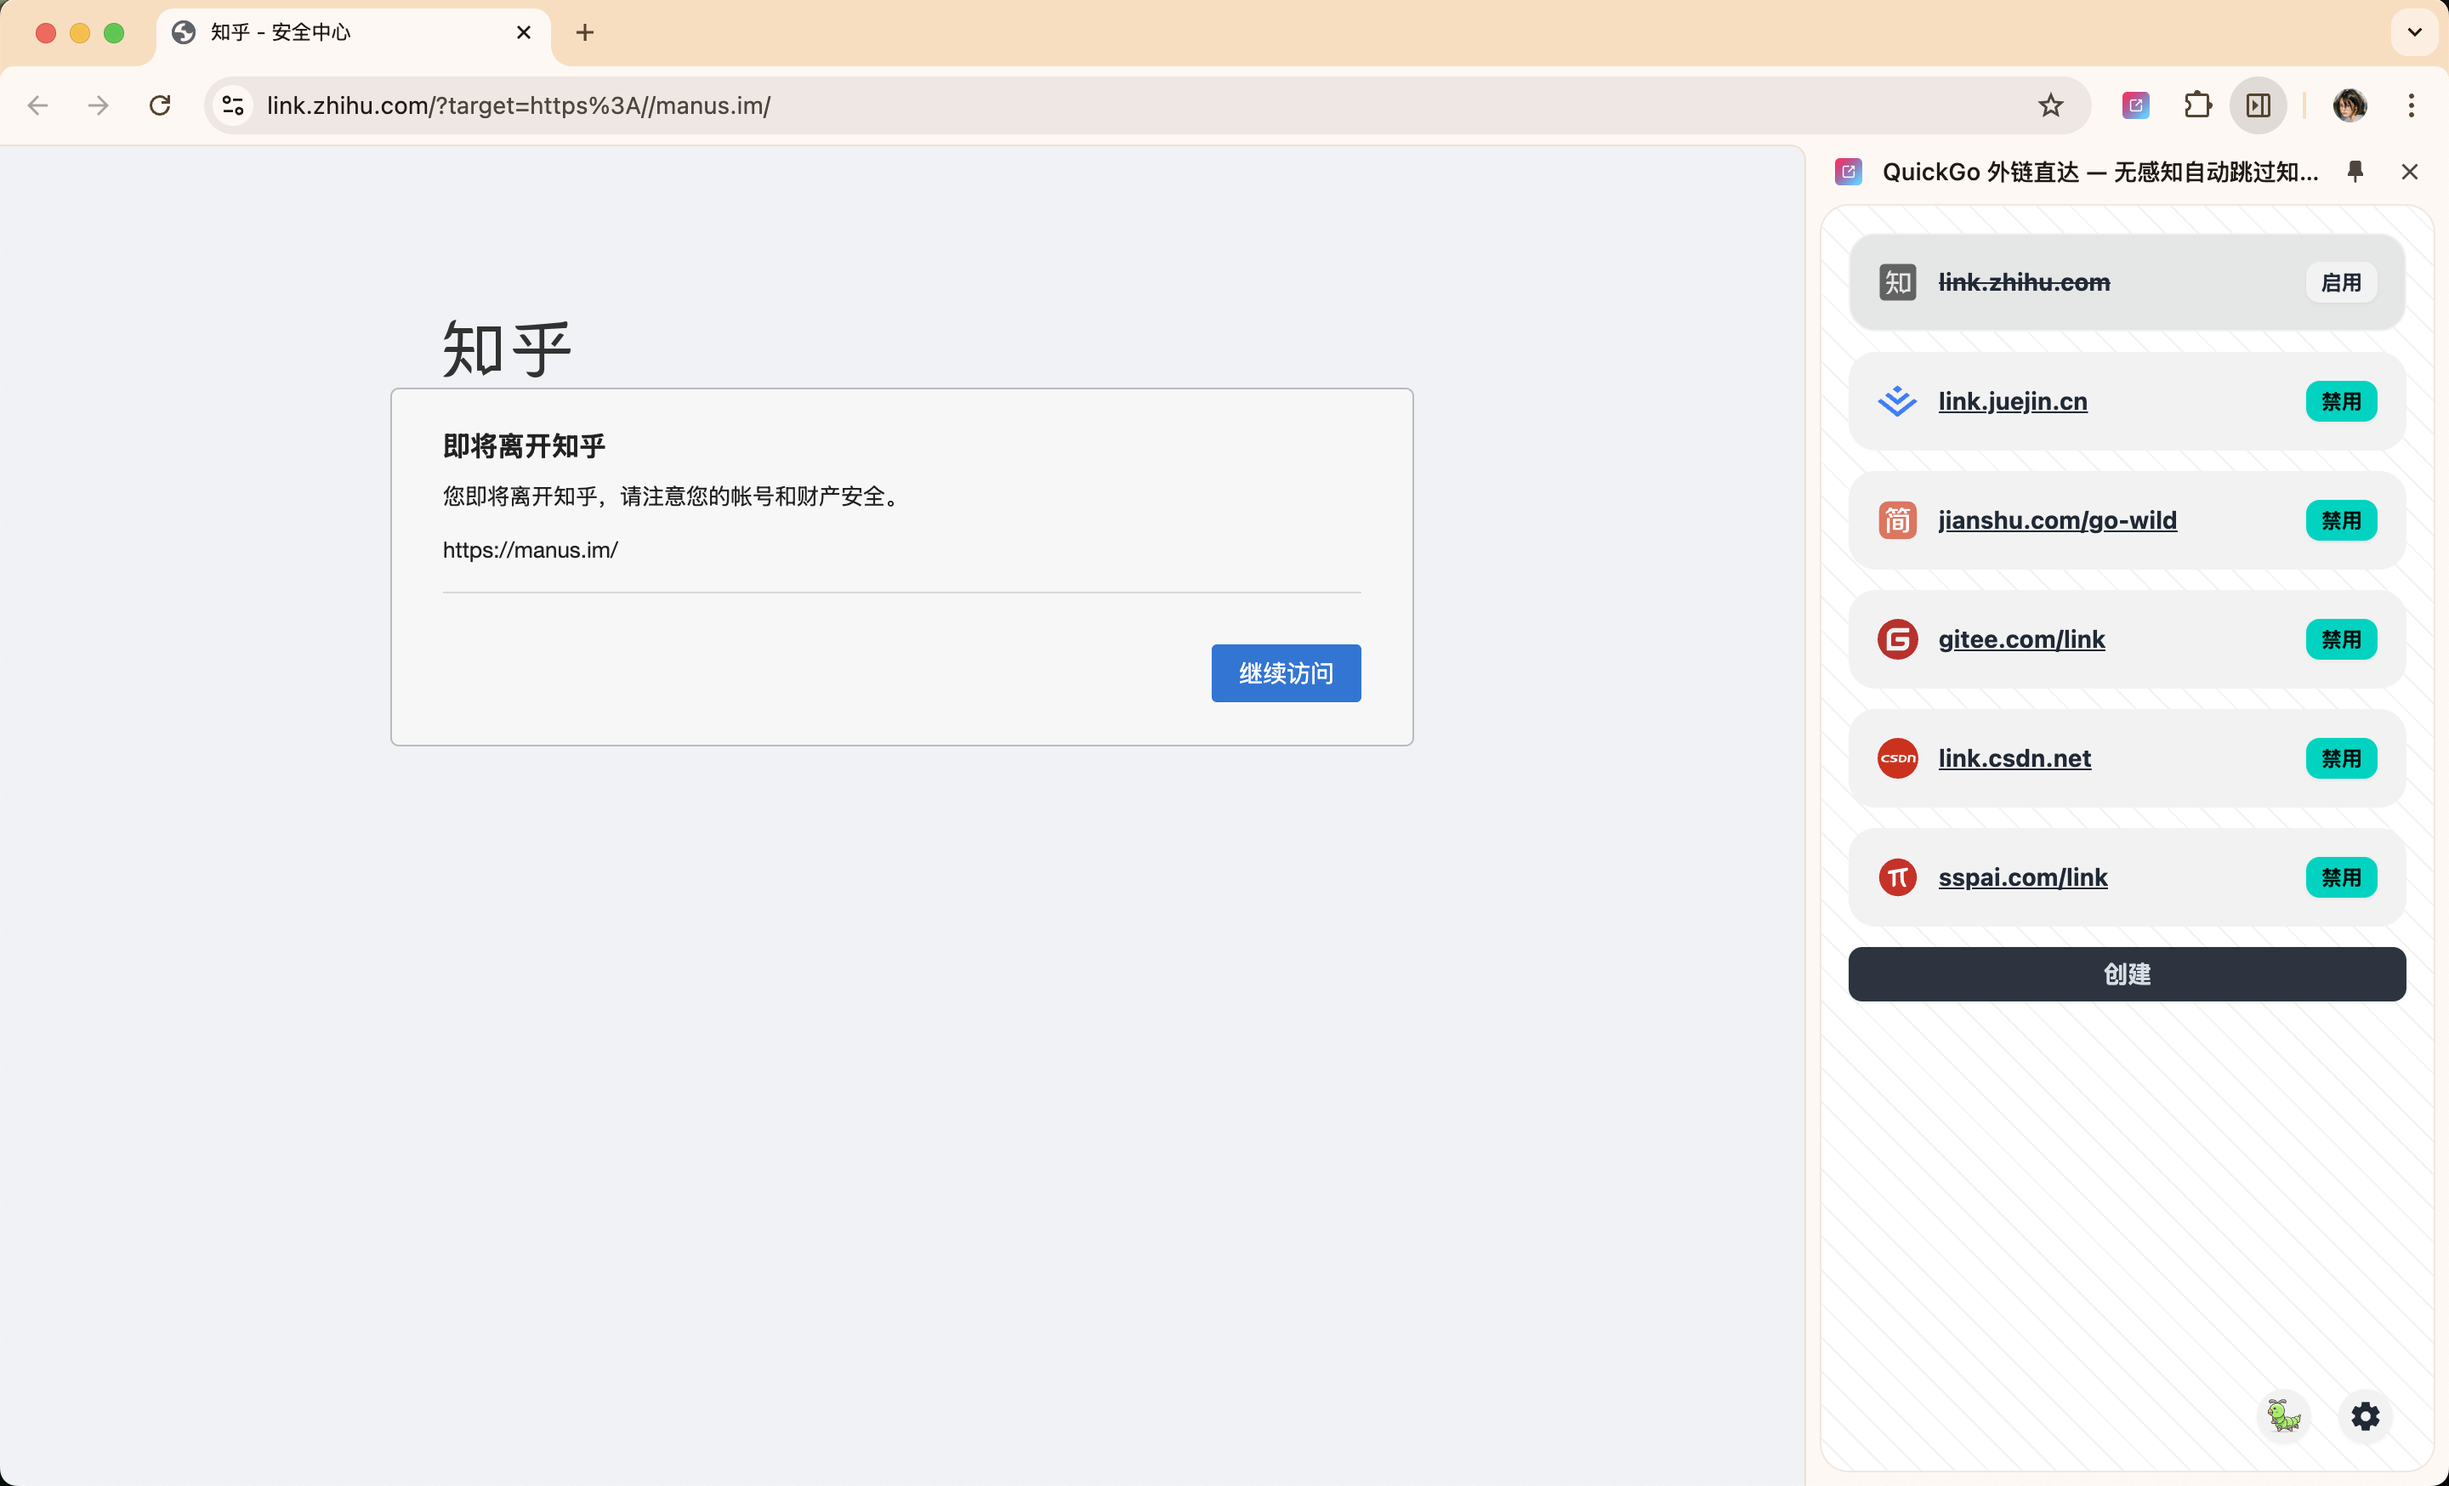
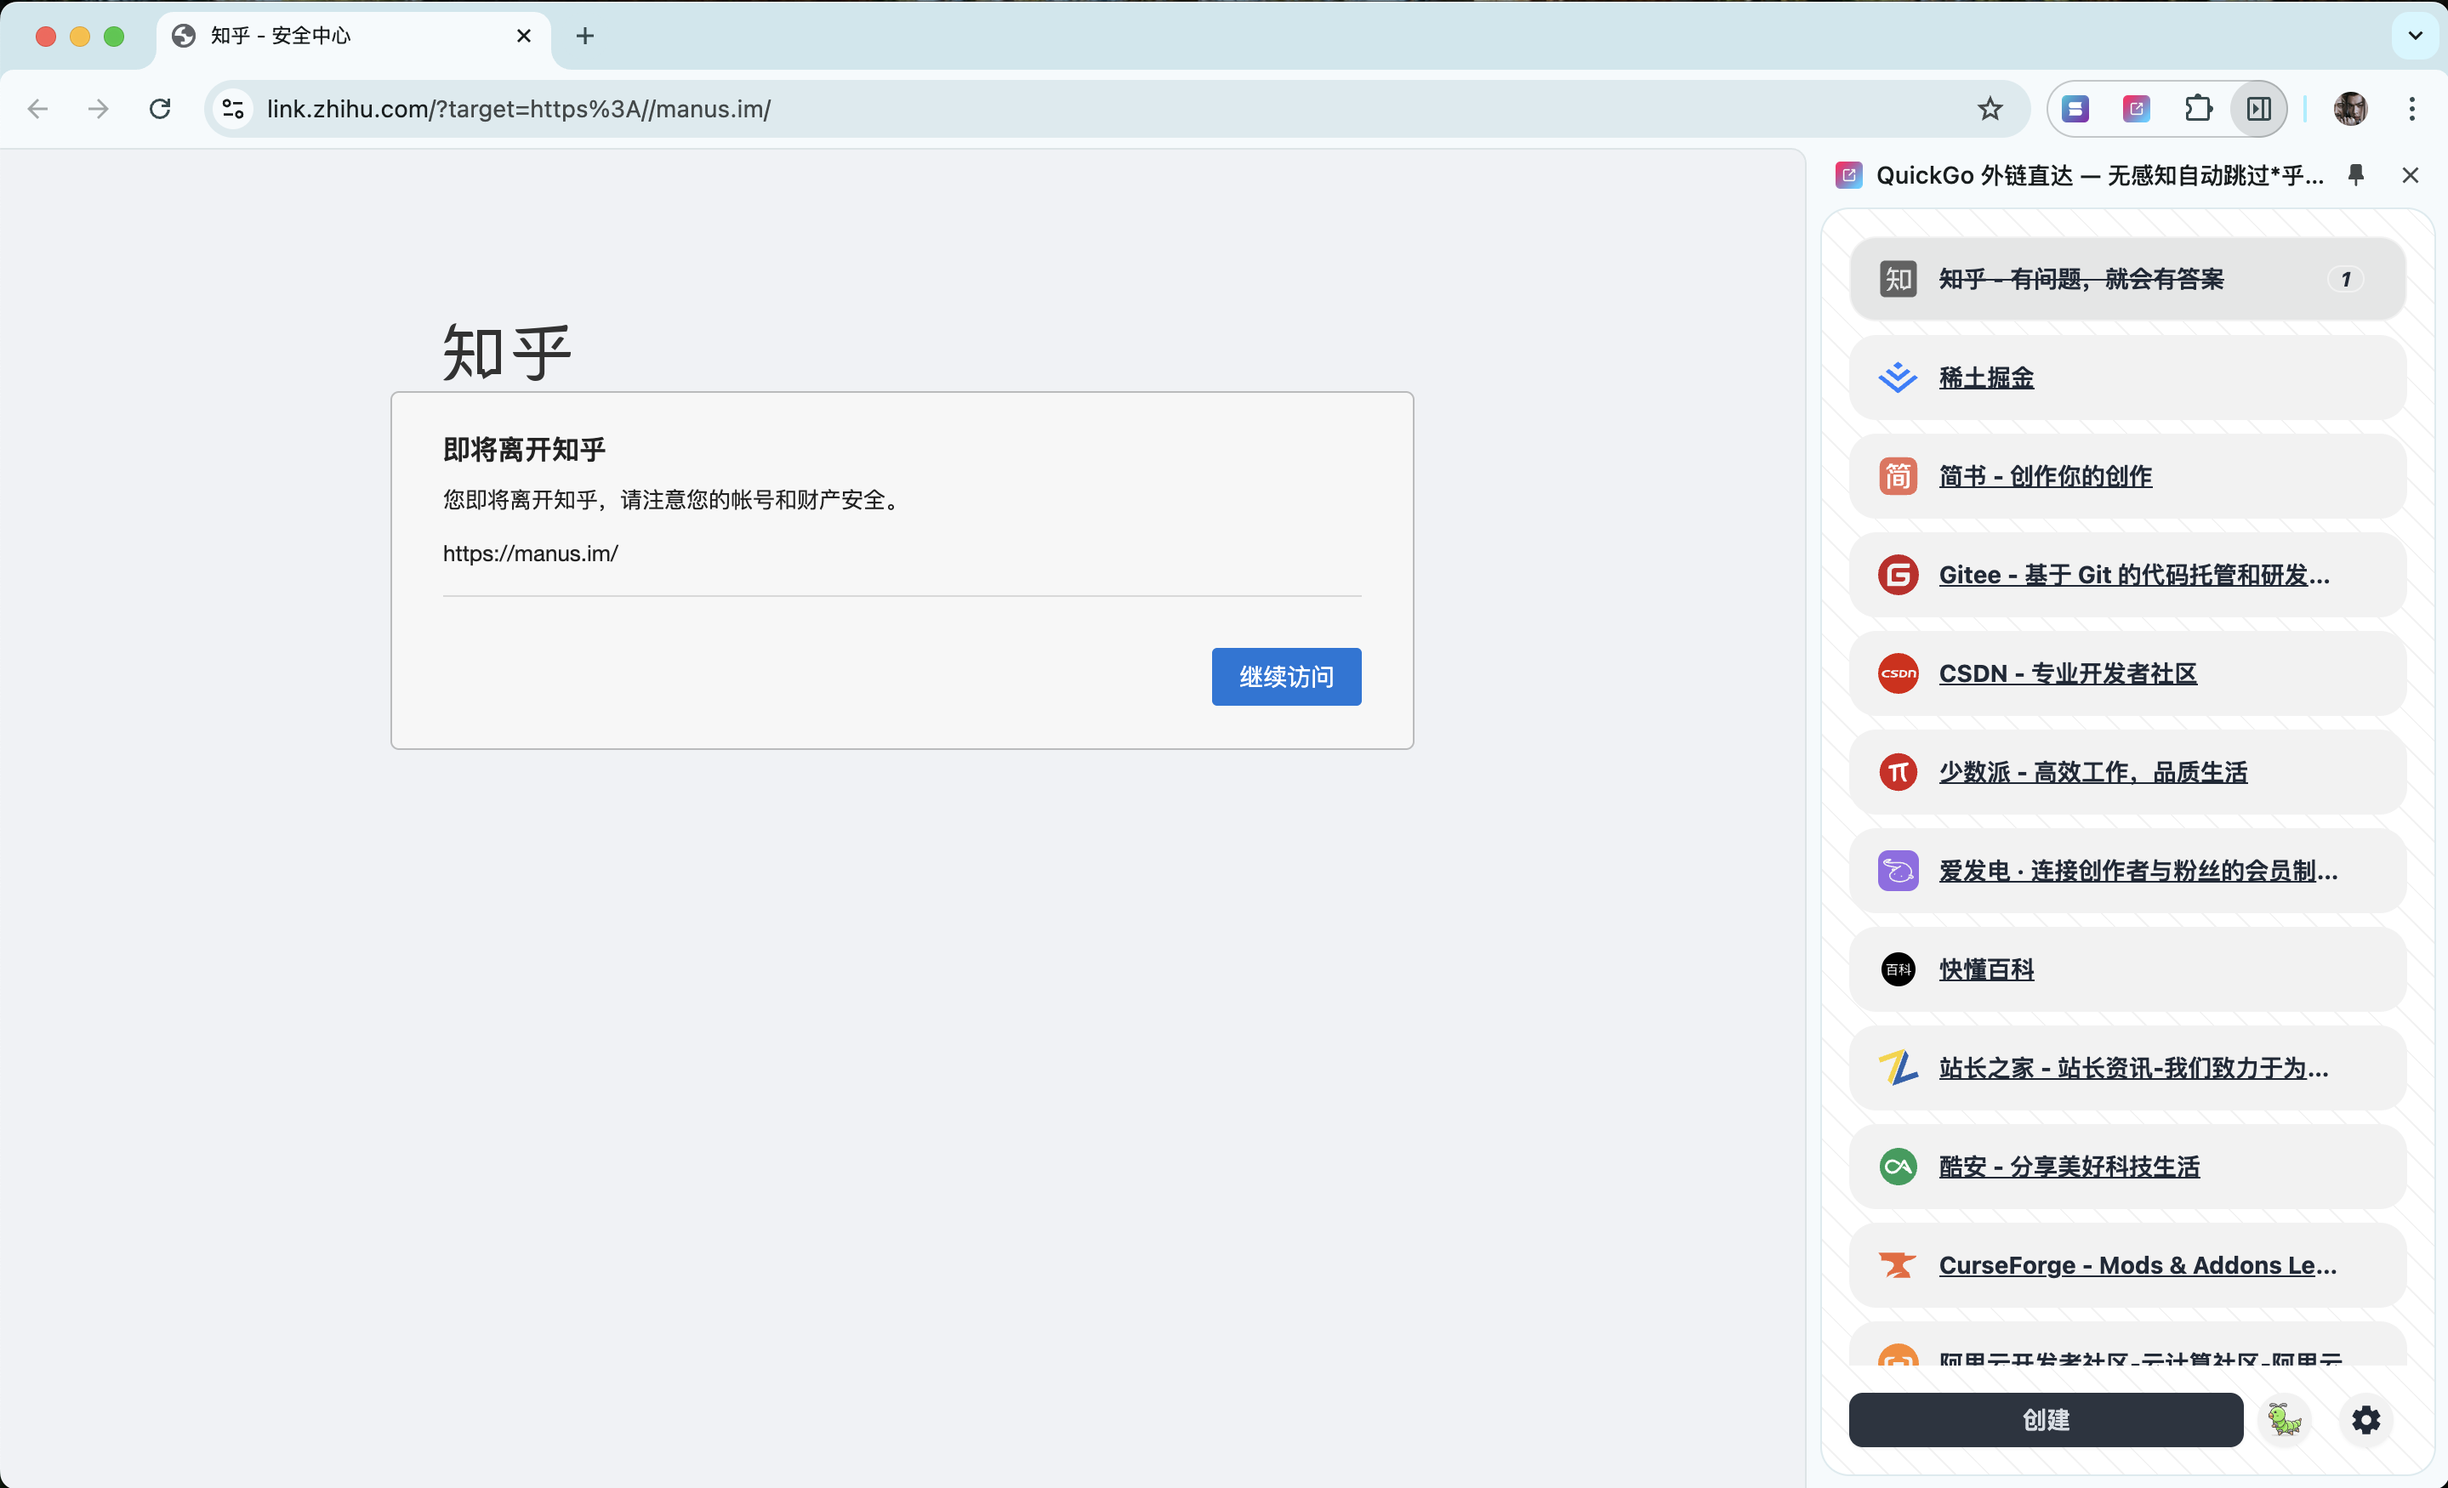
readme

diff --git a/README.md b/README.md
@@ -14,7 +14,7 @@
 
 <div align="center">
 
-[chrome web store](https://chromewebstore.google.com/detail/quickgo/homllehcipjgpbpepcojhgcpfdopjhml) QuickGo 外链直达 — 无感知自动跳过知乎、简书、掘金、CSDN、少数派、Gitee 等网站的安全中心跳转限制。
+[chrome web store](https://chromewebstore.google.com/detail/quickgo/homllehcipjgpbpepcojhgcpfdopjhml) QuickGo 外链直达 — 无感知自动跳过知乎、简书、掘金、CSDN、少数派、Gitee 等 50+ 网站的安全中心跳转限制。
 
 [English](https://github.com/Dolov/chrome-QuickGo/blob/main/README.en-US.md) | 简体中文
 
@@ -29,10 +29,11 @@
 ✨ **核心功能**：
 
 - ⚡ **极速跳转**，使用更快的 onCreated & onBeforeNavigate API!
-- 📦 **即装即用**，支持知乎、简书、掘金、CSDN、少数派、Gitee 等网站的自动跳转！
+- 📦 **即装即用**，支持知乎、简书、掘金、CSDN、少数派、Gitee 等 50+ 网站的自动跳转！
 - 🎨 **精美 UI**，多款主题随心切换，打造个性化浏览体验！
 - ✏ **自定义规则**，支持手动添加未适配网站，让你自由掌控跳转路径！
 - 🖱 **极简操作**，无需复杂设置，安装即生效，顺畅直达目标！
+- 📊 **智能统计**，支持展示快捷跳转次数，数据尽在掌握！
 
 ### 🛠 自定义规则指南
 
@@ -46,6 +47,8 @@
 
 ![img](./screenshots/theme1.png)
 ![img](./screenshots/theme2.png)
+![img](./screenshots/theme3.png)
+![img](./screenshots/theme4.png)
 
 ### 🎉 欢迎使用 QuickGo
 
